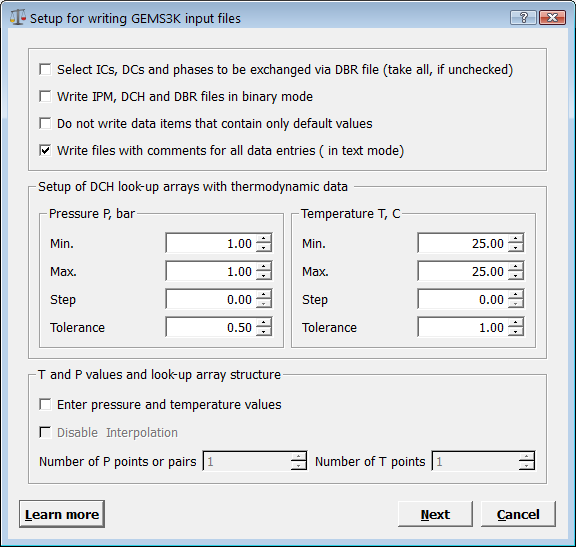
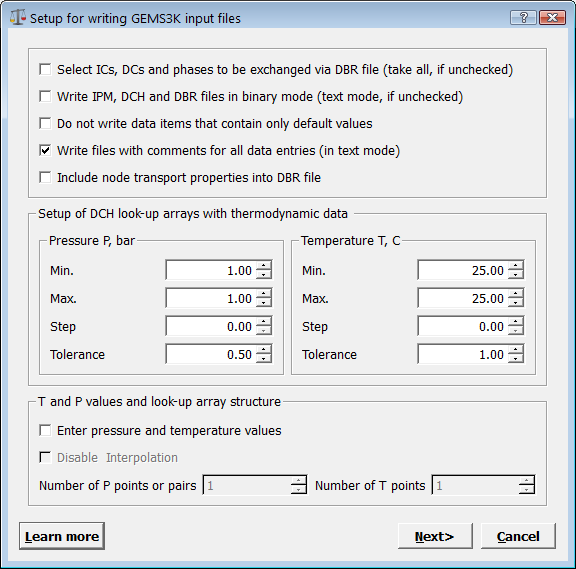
Modified gems_ipm.html help file for bugfixes related to excluded node transport properties in DBR file and DATABR structure.
git-svn-id: svn+ssh://savannah01.psi.ch/repos/gems/GEMSELEKTOR/trunk@2135 7d9feeff-4400-0410-95ed-9cb8b92a518d

Changed region(s): [[0.0, 0.0, 1.0, 0.9634], [0.6875, 0.9324, 0.8125, 0.9634], [0.8438, 0.9324, 0.9375, 0.9634]]

diff --git a/Resources/doc/html/gems_ipm.html b/Resources/doc/html/gems_ipm.html
@@ -2746,24 +2746,29 @@ in is <a href="#HOWTO_READ_IN">described here</a>.<br>
 record. Then click on "Data" "Export GEMS3K files..." menu command. This
  opens the "Setup for writing GEMS3K input files" dialog, which by default looks like this:</p>
 <br>
-<p> <img style=" width: 580px; height: 547px;" alt="SetupWritingGEMS3KfilesDialog.png" src="SetupWritingGEMS3KfilesDialog.png"><br>
-</p>
+ <img style=" width: 576px; height: 569px;" alt="SetupWritingGEMS3KfilesDialog.png" src="SetupWritingGEMS3KfilesDialog.png"><br>
+
+
 <br>
+
 <p>In the upper group, you have a choice to write GEMS3K files in text 
 mode (default) or in binary mode. Activating the "Do not write data 
 items that contain only default values" will result in much smaller IPM 
 and DBR files because only data and numerical settings that differ from 
-default values will be written (by reading these files, GEMS3K will 
+default values will be written; by reading these files, GEMS3K will 
 assume default values for all data objects that are not present in the 
-input files). Note that this makes sense to do if you are sure that you 
+input files. Note that this makes sense to do if you are sure that you 
 work with the same GEMS3K version in both GEM-Selektor and the coupled 
 code. The next option ("Write files with comments..."), if deactivated, 
-results in much smaller, though less human-readable text input files. <br>
-</p>
-<p>The topmost option "Select ICs, DCs, and phases to be exchanged via 
-DATABR file...",&nbsp; if activated, can be used for setting up much 
-more compact DBR files that only contain items that will change in 
-standalone or coupled calculations (<span style="color: rgb(204, 0, 0);">more about this here ...</span>); normally, just leave it unchecked. &nbsp; <br>
+results in much more compact though less human-readable text input files. The
+ last option ("Include node transport properties into DBR file") should 
+be unchecked (default) when exporting files for coupled codes such as 
+OGS-GEMS where all such information is kept in the transport part of the
+ code. The topmost option "Select ICs, DCs, and phases to be exchanged 
+via 
+DATABR file...",&nbsp; if activated, can be used for setting up very 
+compact DBR files that only contain items that will change in 
+standalone or coupled calculations (<span style="color: rgb(204, 0, 0);">yet untested; more about this here ...</span>); normally, just leave it unchecked (default). &nbsp; <br>
 </p>
 <p>The middle group can be used to set up the lookup arrays with 
 thermodynamic data (to be written at the end of the DCH file). This 
@@ -2900,9 +2905,13 @@ example), and click "Open".&nbsp; <br>
 <p>You should see now the "Enter record key" dialog with fields 
 corresponding to SysEq record key from the imported IPM file. Edit 
 fields as you like, to make sure that no such SysEq record already 
-exists in the project, and click Ok. The program reads GEMS3K files, and replaces the previous recipe by the bulk composition from DBR file taken over 
-into the bi_ data object (input mole amounts of Independent Components),&nbsp; as 
-well as metastability constraints and selection of components from the imported IPM and DCH files. &nbsp; &nbsp; &nbsp; </p>
+exists in the project, and click Ok. The program reads GEMS3K files, and
+ replaces the previous recipe by the bulk composition from DBR file 
+taken over 
+into the bi_ data object (input mole amounts of Independent 
+Components),&nbsp; as 
+well as metastability constraints and selection of components from the 
+imported IPM and DCH files. &nbsp; &nbsp; &nbsp; </p>
 <p>In the appearing "Input Recipe" dialog, you should see now the bulk 
 system composition from the imported DBR file, given as bi_ values. 
 Click "Ok" to proceed.&nbsp; Now, click "Open EqDemo window..." toolbar 
